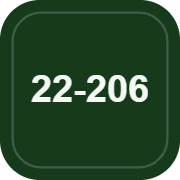
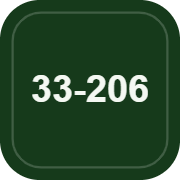
Add files via upload

Changed region(s): [[0.1667, 0.4167, 0.4167, 0.5833]]

diff --git a/index.html b/index.html
@@ -3,7 +3,7 @@
 <head>
 <meta charset="utf-8">
 <meta name="viewport" content="width=device-width, initial-scale=1, viewport-fit=cover">
-<title>22-206 公共采购与 AA</title>
+<title>33-206 公共采购与 AA</title>
 <link rel="manifest" href="manifest.webmanifest">
 <link rel="icon" href="icon-192.png">
 <link rel="apple-touch-icon" href="icon-180.png">
@@ -260,7 +260,7 @@
 <body>
 <div class="app">
   <header class="top">
-    <div class="plate" id="plate">22-206</div>
+    <div class="plate" id="plate">33-206</div>
     <div>
       <h1>公共采购与 AA</h1>
       <p class="sub" id="subline">正在连接…</p>
@@ -297,7 +297,7 @@ const AREAS = ['玄关','客厅','厨房','卫生间','阳台','其他'];
 const PRIS = ['高','中','低'];
 const STATUSES = ['待购买','已到货'];
 const normStatus = st => st === '已到货' ? '已到货' : '待购买';
-const DEFAULT_SETTINGS = { room:'22-206', roster:['Simon','Gary','Harry','Yuluo'], cur:'$' };
+const DEFAULT_SETTINGS = { room:'33-206', roster:['Simon','Gary','Harry','Yuluo'], cur:'$' };
 const LS_KEY = 'dorm-aa-v1';
 
 /* ============================ helpers ============================ */
@@ -499,7 +499,7 @@ function periodLabel(key, unit, long){ if (unit === 'month'){ const [y,m] = key.
 
 /* ============================ render ============================ */
 function render(){
-  $('#plate').textContent = S.settings.room || '22-206';
+  $('#plate').textContent = S.settings.room || '33-206';
   const ob = openBills(); const openTotal = ob.reduce((a,b) => a + cents(b.amount), 0);
   const todo = S.items.filter(i => normStatus(i.status) !== '已到货').length;
   $('#subline').textContent = S.ready ? `待购 ${todo} 项 · 本轮待结算 ${fmt(openTotal)}${api && api.mode==='db' ? ' · 已同步' : ''}` : '正在加载…';
@@ -898,7 +898,7 @@ document.addEventListener('submit', async e => {
     const names = fd.getAll('roster').map(s => String(s).trim()).filter(Boolean);
     const dedup = [...new Set(names)];
     if (!dedup.length) { toast('至少要有一个人'); return; }
-    const s = { room: String(fd.get('room')||'').trim() || '22-206', cur: String(fd.get('cur')||'').trim() || '$', roster: dedup };
+    const s = { room: String(fd.get('room')||'').trim() || '33-206', cur: String(fd.get('cur')||'').trim() || '$', roster: dedup };
     lsSet('dorm-aa-me', String(fd.get('me')||''));
     if (await guard(() => api.settingsSet(s), '设置已保存')) closeSheet();
   }

diff --git a/README.md b/README.md
@@ -1,4 +1,4 @@
-# 22-206 公共采购与 AA（独立部署版 · 室友不用注册）
+# 33-206 公共采购与 AA（独立部署版 · 室友不用注册）
 
 纯静态网页 + Supabase 免费后端，不依赖 Claude。室友点开你发的链接就能用，不注册、不登录：
 链接里带一个「宿舍口令」，网页第一次打开时记住它，之后每次请求都凭这个口令读写数据；没有口令的人（包括看到了代码仓库的人）什么也读不到、写不了。
